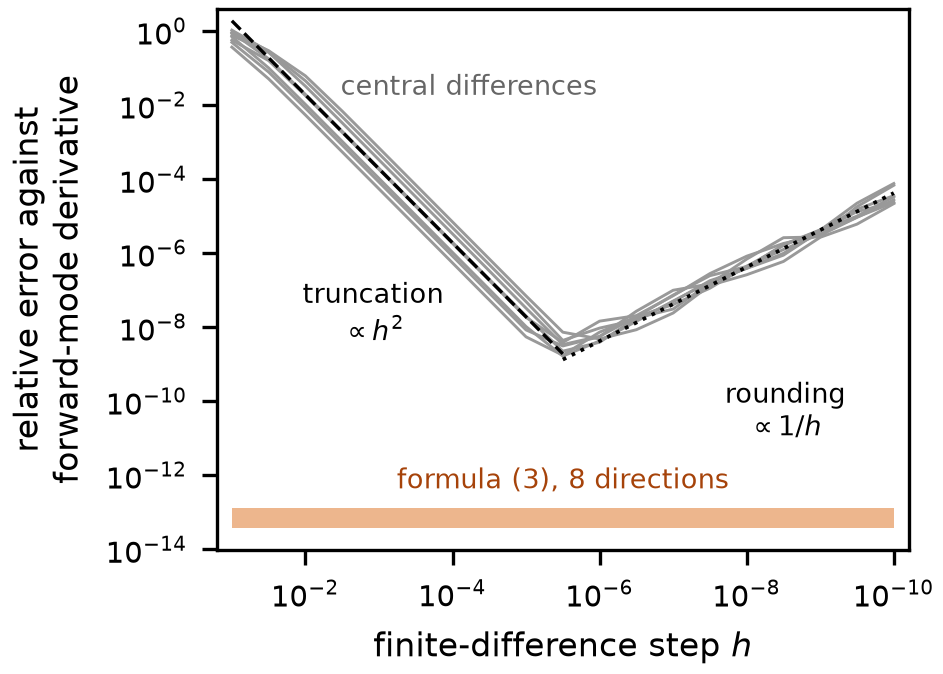
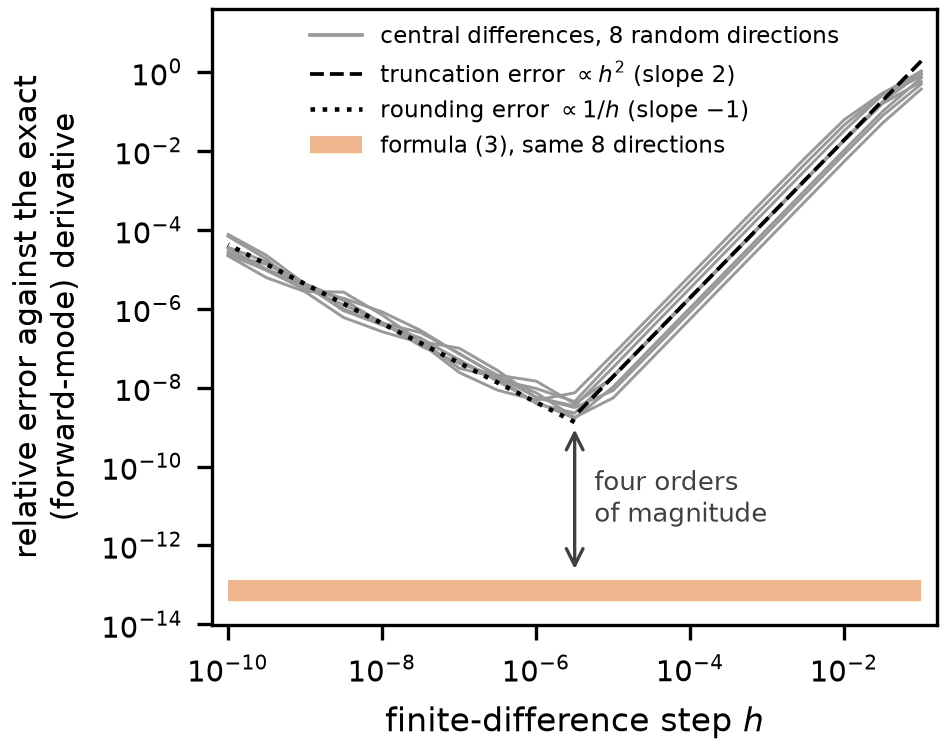
Derivative-check figure: legend, increasing step axis, gap arrow; caption explains the reference lines

diff --git a/tools/plot_derivative_check.py b/tools/plot_derivative_check.py
@@ -26,31 +26,40 @@ def plot_convergence(result, out):
     import matplotlib
     matplotlib.use("Agg")
     import matplotlib.pyplot as plt
+    from matplotlib.lines import Line2D
+    from matplotlib.patches import Patch
     h = np.array(result["fd_steps"])
     fd = np.array(result["fd_relative_errors"])
     errs = np.array(result["relative_errors"])
     med = np.median(fd, axis=0)
-    fig, ax = plt.subplots(figsize=(3.4, 2.5))
-    for k, row in enumerate(fd):
+    fig, ax = plt.subplots(figsize=(3.4, 2.75))
+    for row in fd:
         ax.loglog(h, row, "-", color="0.6", lw=0.7)
     i3 = int(np.argmin(np.abs(h - 1e-3)))
-    seg = h >= 2e-6                                             # truncation regime
-    ax.loglog(h[seg], med[i3] * (h[seg] / h[i3]) ** 2, "--", color="black", lw=0.8)
+    seg = h >= 2e-6                                             # truncation regime: error falls like h^2
+    ax.loglog(h[seg], med[i3] * (h[seg] / h[i3]) ** 2, "--", color="black", lw=0.9)
     i8 = int(np.argmin(np.abs(h - 1e-8)))
-    seg = h <= 5e-6                                             # rounding regime
-    ax.loglog(h[seg], med[i8] * (h[i8] / h[seg]), ":", color="black", lw=0.9)
+    seg = h <= 5e-6                                             # rounding regime: error grows like 1/h
+    ax.loglog(h[seg], med[i8] * (h[i8] / h[seg]), ":", color="black", lw=1.1)
     ax.fill_between([h.min(), h.max()], errs.min(), errs.max(), color="#d95f02", alpha=0.45, lw=0)
-    ax.text(np.sqrt(h.min() * h.max()), errs.max() * 2.2,
-            f"formula (3), {len(errs)} directions", fontsize=6.5, ha="center", va="bottom", color="#a6430a")
     result["band_label"] = f"{sci(errs.min(), 2, 'down')} to {sci(errs.max(), 3, 'up')}"     # for the caption
+    # the gap between the best finite difference and the formula
+    j = int(np.argmin(med))
+    best = fd[:, j].min()
+    ax.annotate("", xy=(h[j], errs.max() * 1.15), xytext=(h[j], best * 0.85),
+                arrowprops=dict(arrowstyle="<->", lw=0.8, color="0.25"))
+    ax.text(h[j] * 1.8, np.sqrt(best * errs.max()), "four orders\nof magnitude", fontsize=6.3, va="center",
+            ha="left", color="0.25")
     ax.set_xlabel(r"finite-difference step $h$", fontsize=8)
-    ax.set_ylabel("relative error against\nforward-mode derivative", fontsize=8)
-    ax.set_ylim(errs.min() / 4, 4)
-    ax.set_xlim(h.max() * 1.6, h.min() / 1.6)                  # decreasing step to the right
-    # direct labels instead of a legend (gray lines: central differences, one per direction; see the caption)
-    ax.text(1.2e-3, 2e-7, "truncation\n" + r"$\propto h^2$", fontsize=6.5, ha="center", va="top")
-    ax.text(3e-9, 4e-10, "rounding\n" + r"$\propto 1/h$", fontsize=6.5, ha="center", va="top")
-    ax.text(6e-5, 3e-2, "central differences", fontsize=6.5, ha="center", va="center", color="0.4")
+    ax.set_ylabel("relative error against the exact\n(forward-mode) derivative", fontsize=7.5)
+    ax.set_ylim(errs.min() / 4, 40)
+    ax.set_xlim(h.min() / 1.6, h.max() * 1.6)                  # step increases to the right
+    handles = [Line2D([], [], color="0.6", lw=0.9, label="central differences, 8 random directions"),
+               Line2D([], [], color="black", ls="--", lw=0.9, label=r"truncation error $\propto h^2$ (slope 2)"),
+               Line2D([], [], color="black", ls=":", lw=1.1, label=r"rounding error $\propto 1/h$ (slope $-1$)"),
+               Patch(color="#d95f02", alpha=0.45, lw=0, label="formula (3), same 8 directions")]
+    ax.legend(handles=handles, fontsize=5.6, loc="upper center", frameon=False, handlelength=2.2,
+              borderaxespad=0.3)
     ax.tick_params(labelsize=7)
     fig.tight_layout()
     fig.savefig(out, dpi=300, bbox_inches="tight", pad_inches=0.03)

diff --git a/paper/llm/main.tex b/paper/llm/main.tex
@@ -395,14 +395,15 @@ general. The temperature limits below do not change.
 \begin{figure}[tbp]
 \centering
 \includegraphics[width=0.5\linewidth]{fig-derivative-check.png}
-\caption{Formula \eqref{eq:gain} checked against the network's own derivatives at a state of the period-8 orbit of
-Table~\ref{tab:orbits} (Qwen2.5-0.5B-Instruct, philosophy direction at layer 12, $\alpha=0.071674$,
-$\log_{10}T=-0.115$, float64). Gray: relative error of central differences $(F(x+hu)-F(x-hu))/(2h)$ against the
-forward-mode derivative $DF(x)\,u$ along eight random unit directions $u$. They converge like $h^2$ (fitted slopes
-1.98 to 2.00 for $10^{-4}\le h\le10^{-2}$) until rounding takes over near $h=3\times10^{-6}$, where they reach
-$1.7\times10^{-9}$ to $4.8\times10^{-9}$. Orange: relative error of $T^{-1}\Sigma_p J_{\tilde h}(x)\,u$ against the
-same derivatives, $3.8\times10^{-14}$ to $1.35\times10^{-13}$, more than four orders of magnitude below the best
-finite difference.}
+\caption{Formula \eqref{eq:gain} is exact up to rounding. At a state of the period-8 orbit of Table~\ref{tab:orbits}
+(Qwen2.5-0.5B-Instruct, philosophy direction at layer 12, $\alpha=0.071674$, $\log_{10}T=-0.115$, float64), the
+factorized derivative $T^{-1}\Sigma_p J_{\tilde h}(x)\,u$ (orange band) agrees with the network's forward-mode derivative
+$DF(x)\,u$ to a relative error of $3.8\times10^{-14}$ to $1.35\times10^{-13}$ in eight random unit directions $u$. For
+comparison, the gray lines show the error of central differences $(F(x+hu)-F(x-hu))/(2h)$ in the same directions. For
+large steps $h$ their error is truncation, which falls like $h^2$ as $h$ shrinks (dashed line, slope 2; fitted slopes
+1.98 to 2.00 for $10^{-4}\le h\le10^{-2}$); below $h\approx3\times10^{-6}$ rounding takes over and the error grows like
+$1/h$ (dotted line). At their best the finite differences reach $1.7\times10^{-9}$ to $4.8\times10^{-9}$, more than
+four orders of magnitude above the formula's error (arrow).}
 \label{fig:derivcheck}
 \end{figure}
 
